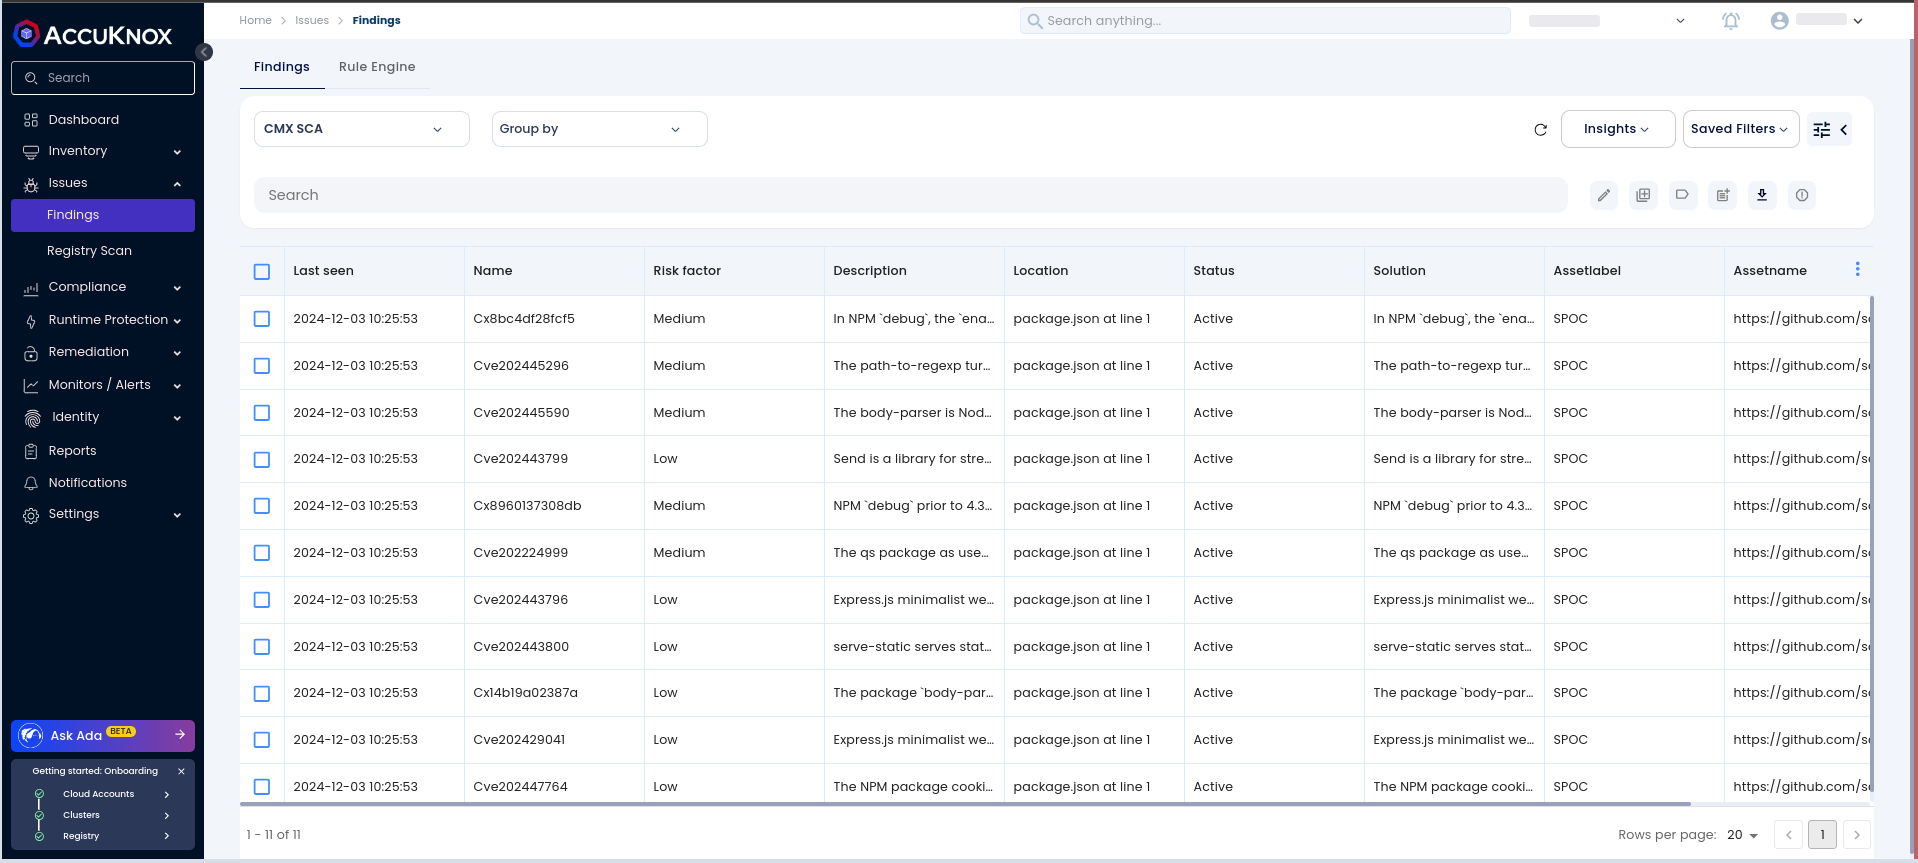
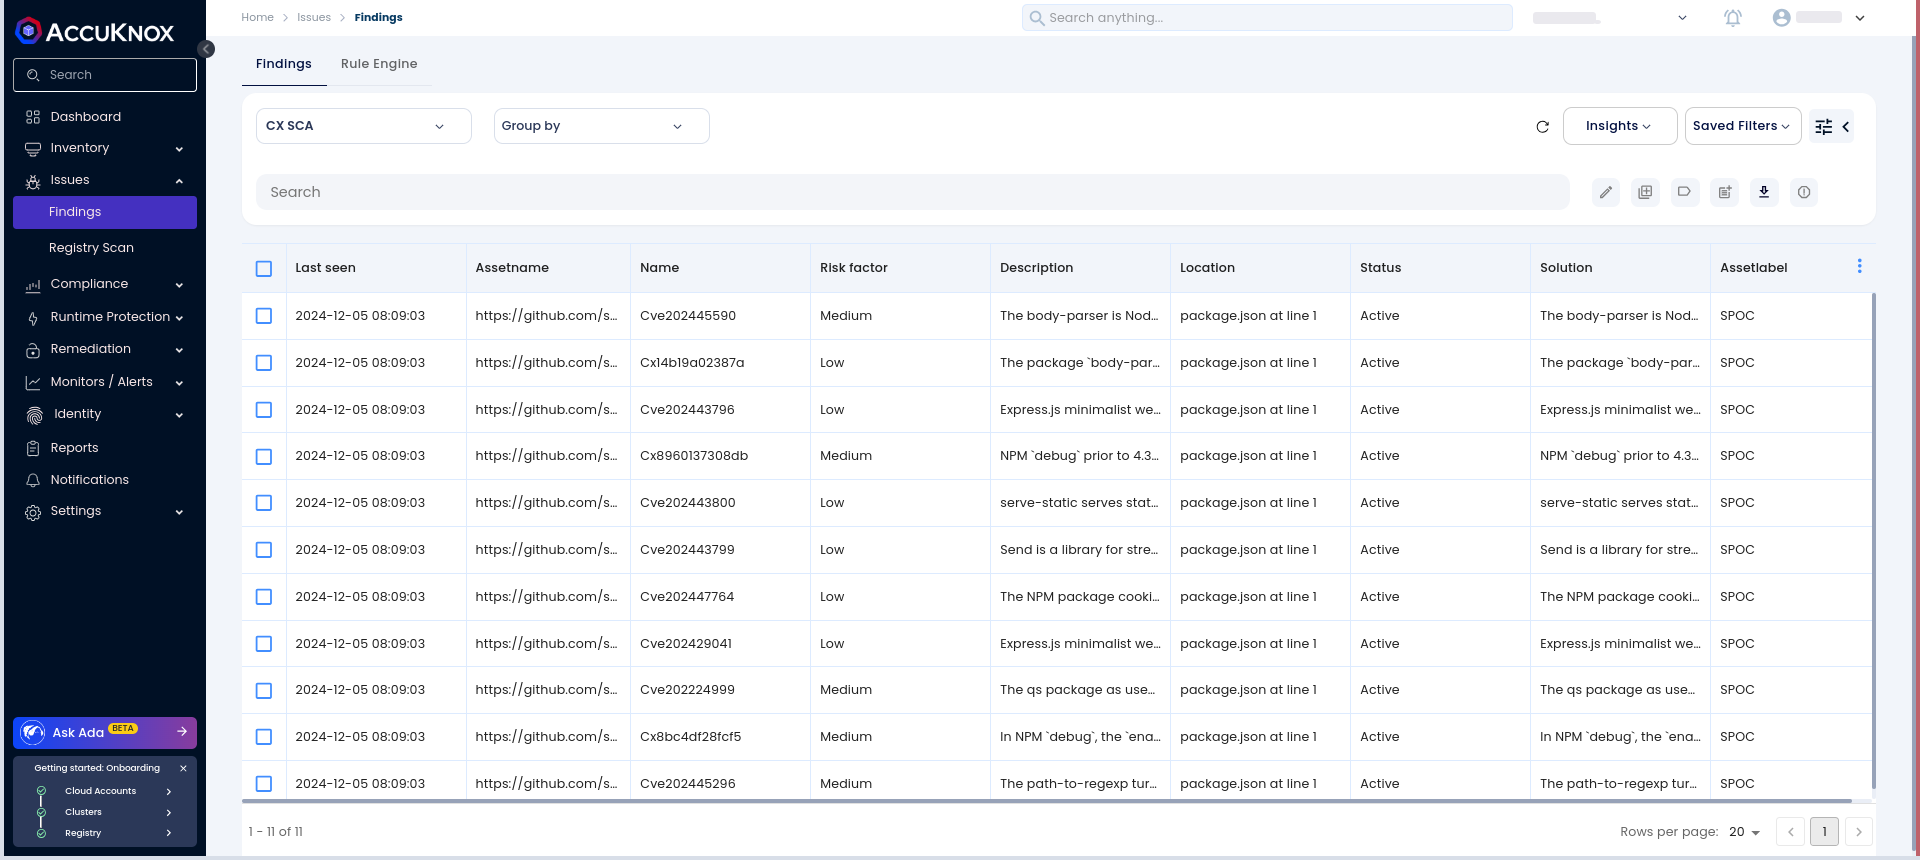
updated checkmarx sca images and scripts

diff --git a/docs/integrations/checkmarx-sca.md b/docs/integrations/checkmarx-sca.md
@@ -41,7 +41,7 @@ name: Checkmarx Sarif Integration for SCA
 
 on:
   push:
-    branches: [ "sca" ]
+    branches: [ "cmx-sca" ]
 
 permissions:
   security-events: write
@@ -192,7 +192,7 @@ jobs:
 
       - name: Push SARIF file to AccuKnox
         run: |
-          curl --location 'https://${{ secrets.ACCUKNOX_ENDPOINT }}/api/v1/artifact/?tenant_id=${{ secrets.ACCUKNOX_TENANT }}&data_type=CMX&save_to_s3=true&label_id=${{ secrets.ACCUKNOX_LABEL }}' \
+          curl --location 'https://${{ secrets.ACCUKNOX_ENDPOINT }}/api/v1/artifact/?tenant_id=${{ secrets.ACCUKNOX_TENANT }}&data_type=CX&save_to_s3=true&label_id=${{ secrets.ACCUKNOX_LABEL }}' \
             --header 'Tenant-Id: ${{ secrets.ACCUKNOX_TENANT }}' \
             --header 'Authorization: Bearer ${{ secrets.ACCUKNOX_TOKEN }}' \
             --form 'file=@./tmp_sarif_with_snippets.sarif'
